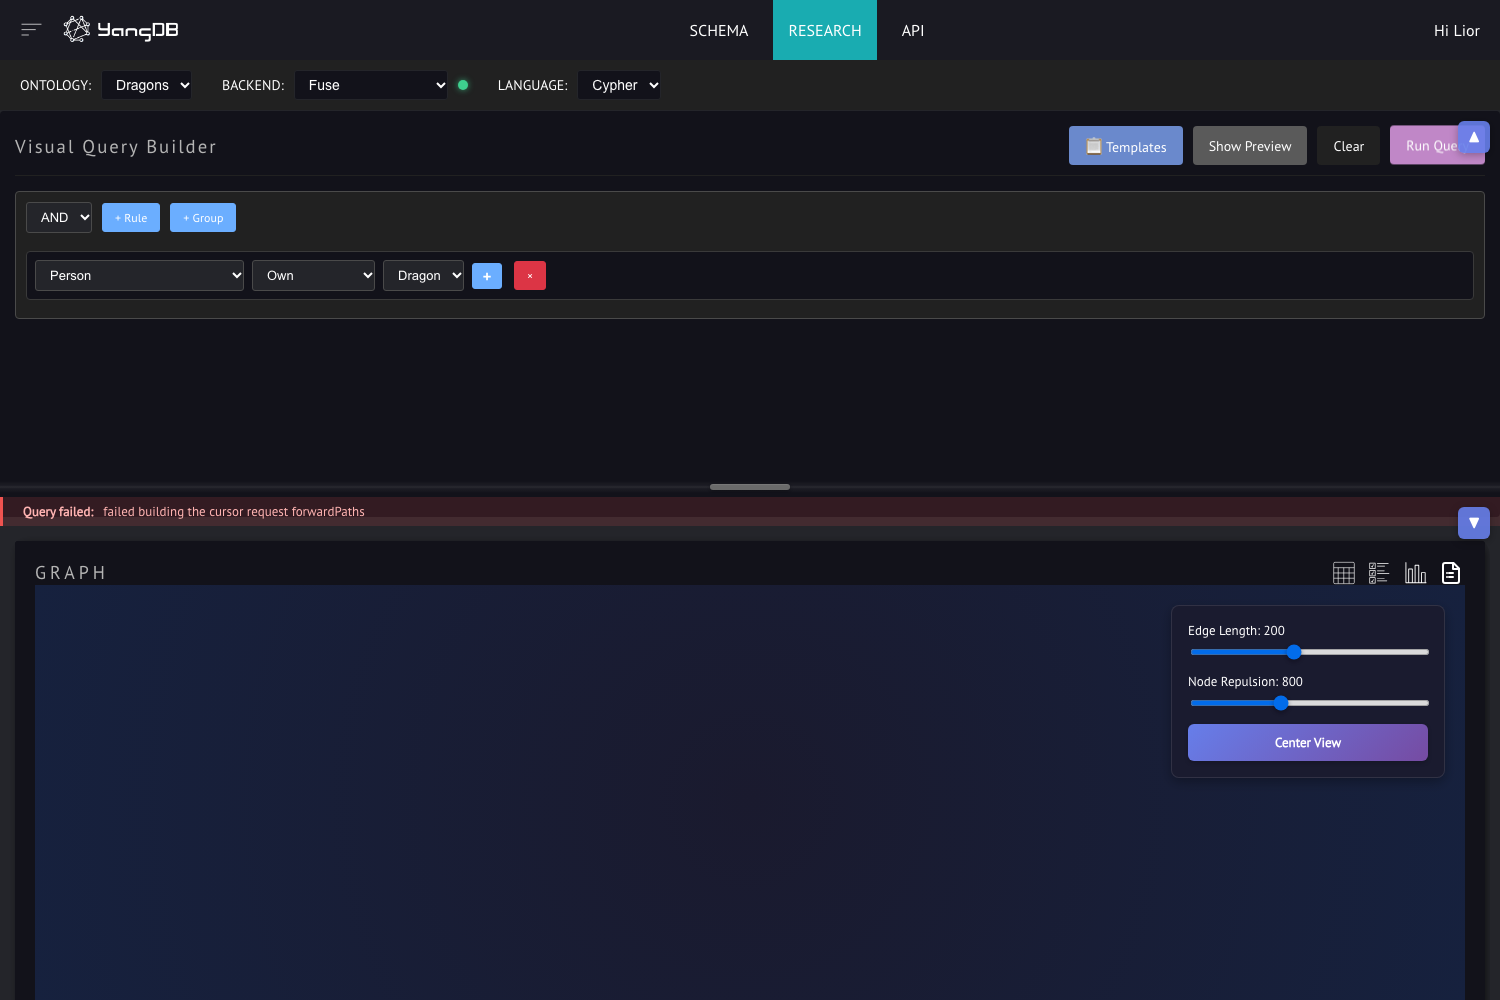
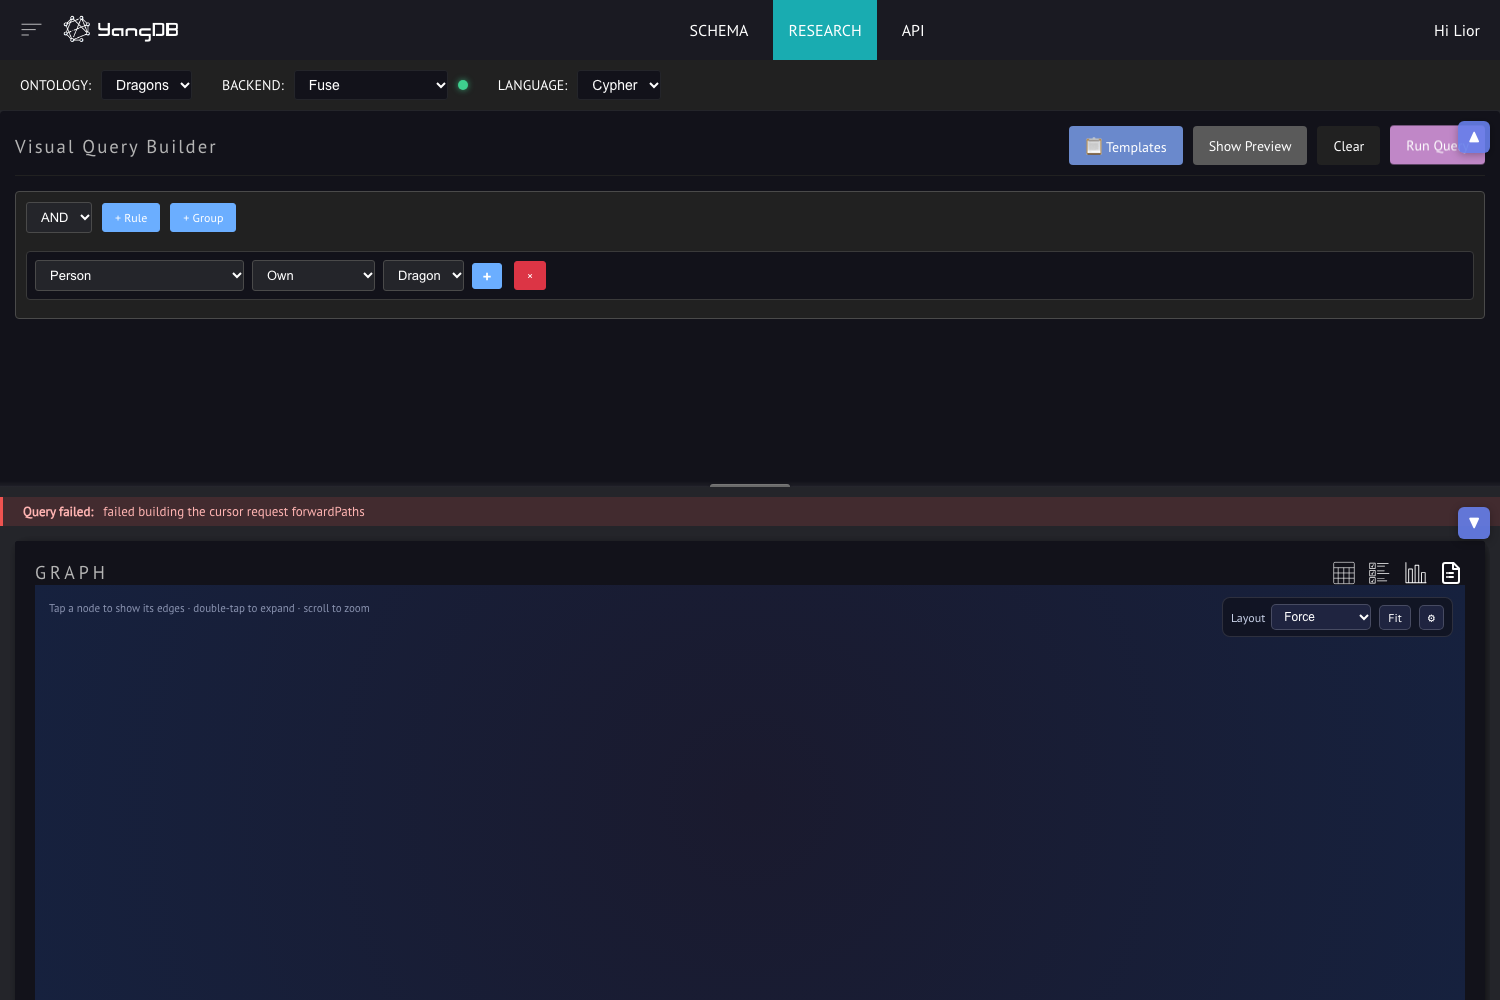
docs: graph reading guide, refreshed screenshots, B1 and A9 in the plan

Changed region(s): [[0.7667, 0.589, 0.9813, 0.775], [0.0613, 0.589, 0.1227, 0.62]]

diff --git a/docs/UX_AND_FUSE_PLAN.md b/docs/UX_AND_FUSE_PLAN.md
@@ -130,12 +130,12 @@ CORS is already open on Fuse (`Access-Control-Allow-Origin: *`, OPTIONS answered
 - [x] **A8. Paging.** Request a sensible `pageSize` (100 for the graph view). Show "N results, load more" when
   `actualPageSize == requestedPageSize`, using `nextPage`. Merge new assignments into the existing result.
   *Done:* `appendFuseResult`; verified live (121 black dragons: 100, then 21 and the button goes away).
-- [ ] **A9. Expand node.** Wire the existing `updateResult(nodeId)` path to `getNeighbors` in Fuse mode. If the route
+- [x] **A9. Expand node.** Wire the existing `updateResult(nodeId)` path to `getNeighbors` in Fuse mode. If the route
   turns out broken, record it under **Fuse-side asks** and fall back to running
   `MATCH (n:<Type>)-[r]-(m) WHERE id(n) = '<id>' RETURN *` through `runCypher`, if Fuse supports that form.
-  *Half done:* `fuse.getNeighbors` works and is covered live; its result normalizes (the node's own id is
-  `Dragon_100`). Not yet wired to the graph's expand action: `Force.js` still calls the mock `updateResult`, and the
-  entity's raw `id` and `eType` are now on each node for this.
+  *Done:* double-tapping a node calls `getNeighbors` in Fuse mode (`onExpandNode`, passed from the Research page
+  through `Results`), merges the new nodes and edges, and deletes the stored query; double-tap again removes them.
+  A single tap now selects. In mock modes the graph still uses `/api/update`.
 - [x] **A10. Query cleanup.** Call `deleteQuery` for a result the user discards or replaces, so stored queries don't
   pile up on the server.
   *Done:* the previous query is deleted when a run replaces it or the backend changes.
@@ -202,16 +202,23 @@ References to study before designing (stars as of 2026-11-26):
 
 ### B1. Graph readability (do first: cheapest, biggest visual change)
 
-- [ ] **Color by entity type.** In `Force.js`, use `entityColors[eType]` always. Show connectivity through node size
+- [x] **Color by entity type.** In `Force.js`, use `entityColors[eType]` always. Show connectivity through node size
   only, which already happens. Generate colors for types missing from the map from a fixed palette, so other
   ontologies (Flights, LinkedIn and those loaded from Fuse) get distinct colors too.
-- [ ] **Readable labels.** Label a node with its first present display property (`name`, `title`, `firstName`
+  *Done:* `helpers/graphStyle.js` (`buildTypeColors`): known types keep a fixed colour, others take unused palette
+  colours, so no two types in one result share one. Dragon moved from red to green: next to Person's pink it was
+  hard to tell apart.
+- [x] **Readable labels.** Label a node with its first present display property (`name`, `title`, `firstName`
   plus `lastName`, then the first string property), and fall back to `eID`. Show the type above the name in
   smaller text.
-- [ ] **Legend.** One chip per entity type with color and count. Clicking a chip hides or shows that type.
-- [ ] **Quieter edges.** Hide edge labels by default. Show them on hover, on the selected node's edges, or above a
+  *Done:* `displayName`; enum-like values (`BLUE`, `MALE`) are skipped, since they describe rather than name. The
+  type is drawn inside the node as a small SVG badge (Cytoscape cannot mix font sizes in one label), with the name
+  below. Names hide when zoomed far out (`min-zoomed-font-size`).
+- [x] **Legend.** One chip per entity type with color and count. Clicking a chip hides or shows that type.
+- [x] **Quieter edges.** Hide edge labels by default. Show them on hover, on the selected node's edges, or above a
   zoom threshold.
-- [ ] **Layout control.** Replace the always-visible "Edge Length / Node Repulsion" panel with a layout dropdown
+  *Done:* all three; the zoom threshold uses `min-zoomed-font-size` (labels from about 1.5x).
+- [x] **Layout control.** Replace the always-visible "Edge Length / Node Repulsion" panel with a layout dropdown
   (force, breadth-first, concentric, grid) plus "Fit". Move the sliders into a settings popover.
 
 ### B2. Inspect results
@@ -271,7 +278,8 @@ References to study before designing (stars as of 2026-11-26):
   it, the root tests could not run in CI (`jest`/`supertest` undeclared), and the server coverage gate now passes
   (96% statements, 82% branches).
 - Definition of done, Part A: a new user can pick a template, run it against Fuse, page through results and see
-  errors, without touching mock mode. Still missing: readable names and types (B1), a properties panel (B2) and
-  expand neighbors in the graph (A9).
+  errors, without touching mock mode. Readable names and types (B1) and expand neighbors (A9) are in; still missing: a properties panel (B2).
 
-**Next step:** B1 (graph readability), then A9's UI half with the B2 details panel.
+- 2026-11-26: B1 done on `feat/b1-graph-readability` (stacked on #49), plus A9's UI half.
+
+**Next step:** B2, the details side panel (type, id, properties, Expand and Hide), then the graph and table view.

diff --git a/README.md b/README.md
@@ -103,12 +103,15 @@ View query results in multiple interactive formats with rich visualization optio
 
 **View Modes**:
 - **Graph View**: Interactive network visualization using Cytoscape.js
+  - Colour per entity type, with the type inside the node and its name below it
+  - Legend with a count per type; click a type to hide or show it
   - Node size based on connectivity
-  - Color gradient showing relationship density
-  - Click to expand/collapse nodes
-  - Adjustable edge length and node repulsion
-  - Center view button for easy navigation
+  - Edge labels on hover, on the selected node's edges, or when zoomed in
+  - Double-tap a node to expand its neighbors (from Fuse, or the mock server)
+  - Layouts: Force, Breadth-first, Concentric, Grid, plus Fit; edge length and repulsion in the ⚙ popover
   - Full-screen mode for detailed exploration
+
+![Readable graph: names, types, legend](docs/images/research-graph-readable.png)
 - **Table View**: Tabular display grouped by entity type
   - Columns for all entity properties
   - Sortable and filterable data
@@ -363,6 +366,7 @@ All screenshots are available in `/docs/images`:
 - `research-fuse-results.png` - Results from Fuse: backend selector, connection dot, language, result count
 - `research-fuse-v1.png` - V1 query preview and its result
 - `research-fuse-error.png` - A Fuse error shown in the results panel
+- `research-graph-readable.png` - Graph with type colours, names, type badges, edge labels and the legend
 - `research-visual-query-builder.png` - Query builder interface with ontology selector and controls
 - `research-template-queries.png` - Pre-built query templates modal
 - `research-results.png` - Complete research interface with query builder and results visualization

diff --git a/docs/tutorials/DRAGONS.md b/docs/tutorials/DRAGONS.md
@@ -93,6 +93,23 @@ The status line reads **96 results (Cypher)** and the graph shows people linked 
 Each result is one *assignment*: one person, one dragon and the `Own` relationship between them. The table, list and
 JSON buttons above the graph show the same result in other forms.
 
+### Reading the graph
+
+![Who knows someone named Christiana](../images/research-graph-readable.png)
+
+- **Colour is the entity type**, and the type is written inside each node. The legend at the bottom lists every type
+  with its count: here **Dragon 65** and **Person 96** (65 dragons have the 96 owners). Click a chip to hide or show
+  that type.
+- **The name is under the node**: its `name`, or `title`, or first and last name. A node with none of these shows its
+  id, like `Dragon_17` (some dragons in the sample have no name).
+- **Size is connectivity**: the more relationships a node has in this result, the bigger it is.
+- **Edge labels** (`Own`, `Know`) appear when you zoom in, hover an edge, or tap a node, which also outlines it.
+  Zoomed out to fit 161 nodes, names and labels hide so the shape stays readable; scroll to zoom in.
+- **Double-tap a node** to bring in its neighbors from Fuse; double-tap it again to remove them. Double-tapping a
+  dragon from this result adds the kingdom it originated in and the dragons it fired on or that fired on it.
+- **Layout** switches between Force, Breadth-first, Concentric and Grid. **Fit** brings everything back into view,
+  and **⚙** holds the Force layout's edge length and repulsion.
+
 Every template returns results from the sample:
 
 | # | Template | Rows (Cypher and V1) |

diff --git a/CHANGELOG.md b/CHANGELOG.md
@@ -5,6 +5,17 @@ from `vX.Y.Z` tags (see [docs/RELEASING.md](docs/RELEASING.md)).
 
 ## [Unreleased]
 
+### Added
+- **Readable result graph.** Nodes are coloured by entity type, with the type written inside the node and its name
+  (name, title, or first and last name) below it. A legend shows each type's count and hides or shows a type on
+  click. Connectivity is shown by node size only.
+- Edge labels appear on hover, on the selected node's edges, or when zoomed in, instead of always.
+- Layout menu (Force, Breadth-first, Concentric, Grid) and a Fit button; the Force settings moved into a popover.
+- Double-tapping a node expands its neighbors through Fuse `getNeighbors` in Fuse mode (a single tap selects).
+
+### Fixed
+- In Fuse mode, tapping a node added unrelated nodes from the mock server's `/api/update`.
+
 ## [0.2.0] - 2026-11-26
 
 The UI now talks to a running YangDB (Fuse) server directly. Mock mode remains for demos and tests.
